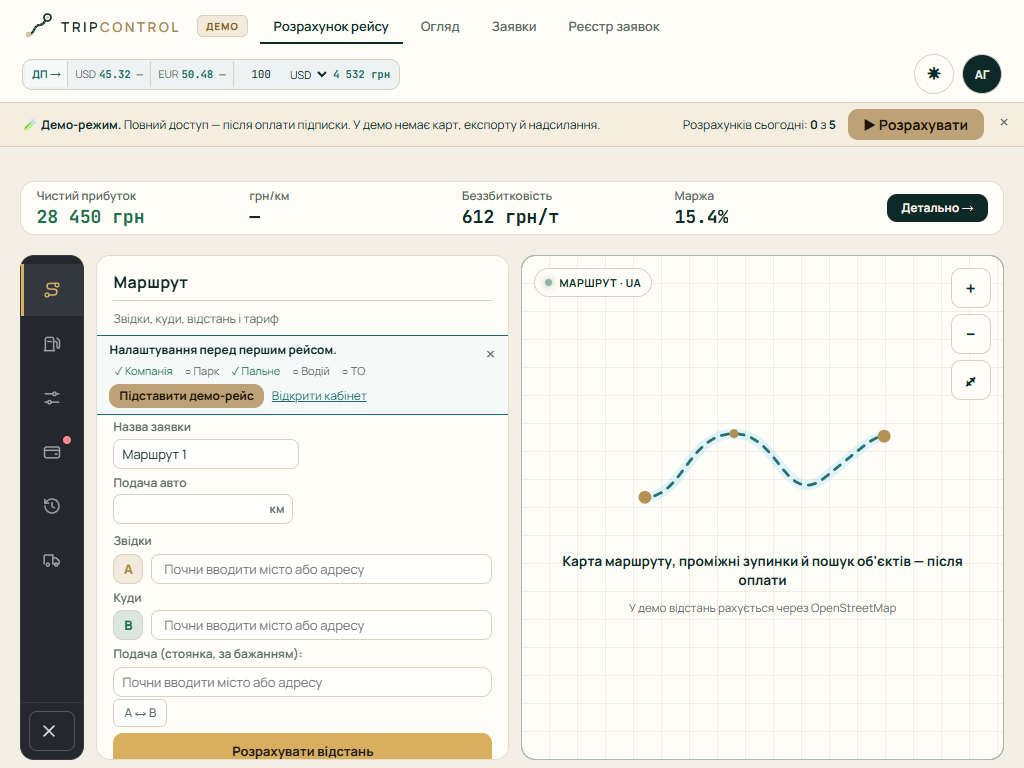
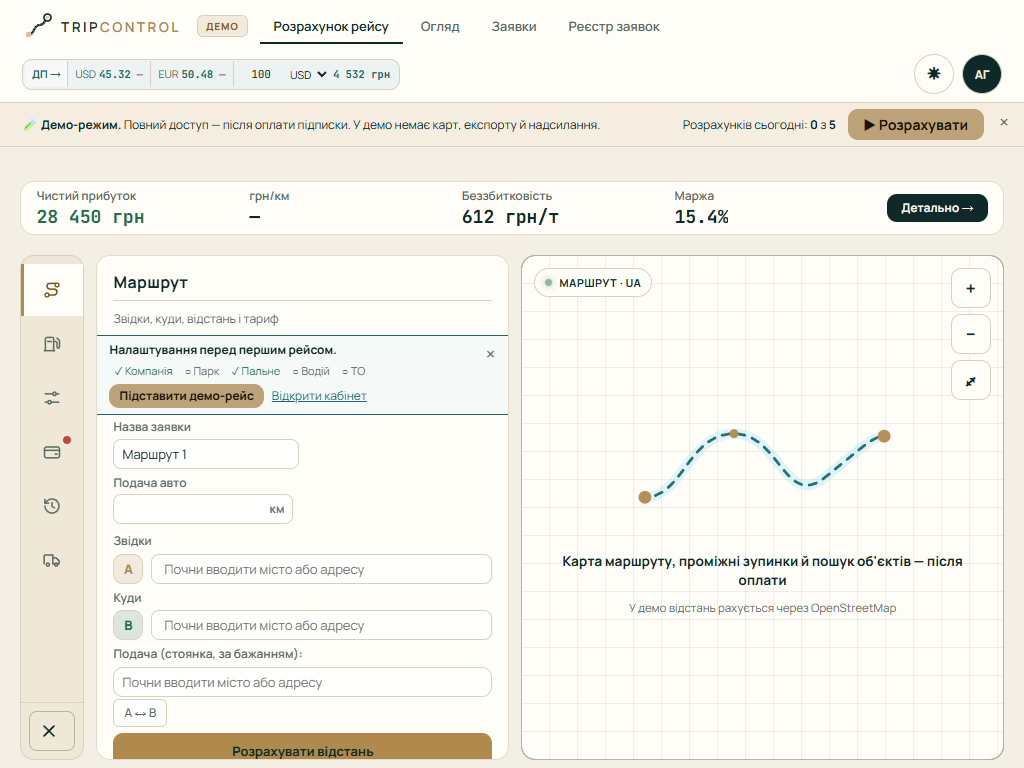
Ліве меню калькулятора: беж у світлій темі, висота колонок у Контроль+
Токени --sidebar-* у світлій темі — беж палітри сайту (графіт лишається в темній); акцентний текст і крапка помилки — окремі токени з контрастом AA. У Контроль+ нижній відступ колонок 16px (--lm-gap), без відступів сторінки під ними.

Changed region(s): [[0.0, 0.3125, 0.5, 1.0]]

diff --git a/index.html b/index.html
@@ -62,7 +62,7 @@
             --border: #D9D1BD; --border-soft: #E3DCCB;
             --accent: #0D2A29; --on-accent: #F4EFE5; --gold: #B08A4C; --warning-text: #8A6420;
             --blk-head-bg: color-mix(in srgb, var(--gold) 14%, transparent); --blk-title: #6B4E17; --blk-n-ink: #FFFFFF; --blk-shadow: 0 1px 3px rgba(13, 42, 40, 0.10);
-           --sidebar: #24272C; --sidebar-active: #33373E; --sidebar-hover: rgba(255, 255, 255, 0.06); --sidebar-text: #D8DADF; --sidebar-muted: #9BA1AB; --sidebar-border: rgba(255, 255, 255, 0.08); --sidebar-border-strong: rgba(255, 255, 255, 0.22); --sidebar-accent: #D9AE5E; --sidebar-on-accent: #1B1C1F;
+           --sidebar: #EFE8D6; --sidebar-active: #FFFDF8; --sidebar-hover: rgba(13, 42, 40, 0.06); --sidebar-text: #0D2A28; --sidebar-muted: #5A6B66; --sidebar-border: #D9D1BD; --sidebar-border-strong: rgba(13, 42, 40, 0.28); --sidebar-accent: #B08A4C; --sidebar-on-accent: #0D2A28; --sidebar-ink-accent: #7A5818; --sidebar-dot: #C2453F;
             --positive: #1F6F4D; --negative: #C2453F; --negative-on-dark: #FF8A8A;
             --teal: #1A6B65; --chart-neutral: #CDBF9F; --muted-on-dark: #A9BCB7;
             --result-muted-on-light: #3F514C; --result-down-on-light: #A63530; --result-be-on-light: #6B4F1C;
@@ -84,7 +84,7 @@
             --border: #2E3646; --border-soft: #262D3A;
             --accent: #7C9CFF; --on-accent: #0B0E14; --gold: #E0B25A; --warning-text: #E0B25A;
             --blk-head-bg: color-mix(in srgb, var(--gold) 9%, transparent); --blk-title: #F0CB82; --blk-n-ink: #0B0E14; --blk-shadow: 0 1px 3px rgba(0, 0, 0, 0.45);
-           --sidebar: #1C1F25; --sidebar-active: #2A2F38; --sidebar-hover: rgba(255, 255, 255, 0.06); --sidebar-text: #D8DADF; --sidebar-muted: #9BA1AB; --sidebar-border: rgba(255, 255, 255, 0.08); --sidebar-border-strong: rgba(255, 255, 255, 0.22); --sidebar-accent: #D9AE5E; --sidebar-on-accent: #1B1C1F;
+           --sidebar: #1C1F25; --sidebar-active: #2A2F38; --sidebar-hover: rgba(255, 255, 255, 0.06); --sidebar-text: #D8DADF; --sidebar-muted: #9BA1AB; --sidebar-border: rgba(255, 255, 255, 0.08); --sidebar-border-strong: rgba(255, 255, 255, 0.22); --sidebar-accent: #D9AE5E; --sidebar-on-accent: #1B1C1F; --sidebar-ink-accent: #D9AE5E; --sidebar-dot: #FF8A8A;
             --positive: #3DDC97; --negative: #FF6B6B; --negative-on-dark: #FF8A8A;
             --teal: #4FD1C5; --chart-neutral: #6B7486; --muted-on-dark: #9AA6C4;
             --radius-card: 14px; --radius-control: 10px;
@@ -4537,14 +4537,14 @@
         }
         #tc-calc-nav .tc-nav-item:hover { background: var(--sidebar-hover); }
         #tc-calc-nav .tc-nav-item:focus-visible { outline: 2px solid var(--sidebar-accent); outline-offset: -2px; }
-        #tc-calc-nav .tc-nav-item[aria-current="page"] { background: var(--sidebar-active); color: var(--sidebar-accent); box-shadow: inset 3px 0 0 var(--sidebar-accent); }
+        #tc-calc-nav .tc-nav-item[aria-current="page"] { background: var(--sidebar-active); color: var(--sidebar-ink-accent); box-shadow: inset 3px 0 0 var(--sidebar-accent); }
         #tc-calc-nav .tc-nav-ico { flex: none; display: grid; place-items: center; width: 22px; height: 22px; color: var(--sidebar-muted); }
-        #tc-calc-nav .tc-nav-item[aria-current="page"] .tc-nav-ico { color: var(--sidebar-accent); }
+        #tc-calc-nav .tc-nav-item[aria-current="page"] .tc-nav-ico { color: var(--sidebar-ink-accent); }
         #tc-calc-nav .tc-nav-text { flex: 1 1 auto; min-width: 0; display: flex; flex-direction: column; gap: 2px; }
         #tc-calc-nav .tc-nav-name { font-size: 13.5px; font-weight: 700; line-height: 1.25; color: inherit; overflow: hidden; text-overflow: ellipsis; white-space: nowrap; }
         #tc-calc-nav .tc-nav-sum { font-size: 11.5px; font-weight: 500; line-height: 1.3; color: var(--sidebar-muted); overflow: hidden; display: -webkit-box; -webkit-box-orient: vertical; line-clamp: 2; -webkit-line-clamp: 2; overflow-wrap: anywhere; }
         #tc-calc-nav .tc-nav-sum:empty { display: none; }
-        #tc-calc-nav .tc-nav-dot { flex: none; width: 8px; height: 8px; border-radius: 50%; background: var(--negative-on-dark); box-shadow: 0 0 0 2px var(--sidebar); }
+        #tc-calc-nav .tc-nav-dot { flex: none; width: 8px; height: 8px; border-radius: 50%; background: var(--sidebar-dot); box-shadow: 0 0 0 2px var(--sidebar); }
         #tc-calc-nav .tc-nav-dot[hidden] { display: none; }
         #tc-calc-nav .tc-nav-tip { display: none; }
         #tc-calc-nav .tc-nav-actions { display: flex; flex-direction: column; gap: 8px; padding: 12px; border-top: 1px solid var(--sidebar-border); }
@@ -4602,7 +4602,7 @@
         @media (min-width: 901px) {
             body.layout-studio.tc-lm[data-theme][data-studio-view="calc"]:not([data-calc-detail="1"]) {
                 --lm-top: calc(var(--cc-off, var(--tc-sticky-h, 0px)) + var(--tc-strip-h, 49px) + 8px);
-                --lm-h: calc(100vh - var(--lm-top) - 8px);
+                --lm-h: calc(100vh - var(--lm-top) - var(--lm-gap, 8px));
             }
             body.layout-studio.tc-lm[data-theme][data-studio-view="calc"]:not([data-calc-detail="1"]) #studio-columns {
                 display: grid; grid-template-columns: 240px minmax(380px, min(34%, 520px)) minmax(0, 1fr); gap: 12px; align-items: start;
@@ -18959,7 +18959,8 @@
         var room = vh - Math.max(colsTop, stickyTop) - 8 - slack;
         document.documentElement.style.setProperty('--cc-room', Math.max(360, Math.round(room)) + 'px');
         // Ліве меню: меню, панель і мапа однієї висоти — від верху колонок (або липкого верху) до низу вікна; slack не потрібен, бо панель скролиться всередині.
-        document.documentElement.style.setProperty('--lm-room', Math.max(360, Math.round(vh - Math.max(colsTop, stickyTop) - 8)) + 'px');
+        var lmGap = parseFloat(getComputedStyle(document.body).getPropertyValue('--lm-gap')) || 8; // у Контроль+ нижній відступ 16px (kp-calc.css)
+        document.documentElement.style.setProperty('--lm-room', Math.max(360, Math.round(vh - Math.max(colsTop, stickyTop) - lmGap)) + 'px');
     }
     // Перерахунок на scroll (від 901px; на телефоні карта 40vh з CSS): passive + один requestAnimationFrame на кадр.
     var scrollRaf = 0;

diff --git a/apps/kontrol-plus/src/kp-calc.css b/apps/kontrol-plus/src/kp-calc.css
@@ -9,5 +9,12 @@
         --tc-fs-s: 12px;
         --tc-h: 30px;
         --cc-off: calc(var(--kp-strip-h, 0px) + var(--kp-top-h, 52px));
+        --lm-gap: 16px; /* ліве меню калькулятора: меню, панель і мапа закінчуються за 16px від низу вікна */
     }
+}
+
+/* Три колонки (меню / панель / мапа) вміщаються у вікно: нижніх відступів сторінки під ними немає, скролиться лише панель секції. */
+@media (min-width: 901px) {
+    body.kp-shell-on.layout-studio[data-studio-view="calc"]:not([data-calc-detail="1"]) #main-app { padding-bottom: 0 !important; }
+    body.kp-shell-on.layout-studio[data-studio-view="calc"]:not([data-calc-detail="1"]) #studio-columns { padding-bottom: 0; }
 }
